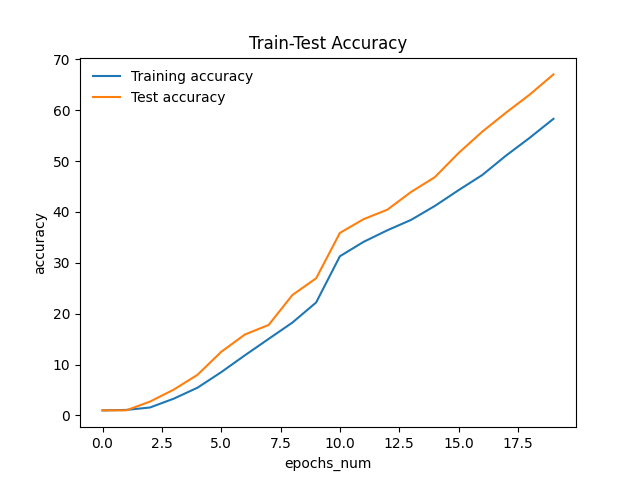
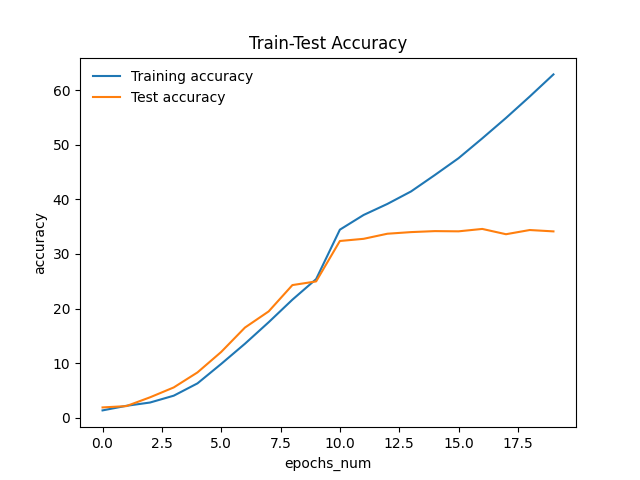
fixed bug with training data set

diff --git a/main.py b/main.py
@@ -37,7 +37,7 @@ def make_data_sets():
     data_sets = {
         'train': torchvision.datasets.CIFAR100(root='data', train=True, download=True,
                                                transform=data_transforms['train']),
-        'test': torchvision.datasets.CIFAR100(root='data', download=True, transform=data_transforms['test'])
+        'test': torchvision.datasets.CIFAR100(root='data', download=True, train=False, transform=data_transforms['test'])
     }
 
     dataloaders = {
@@ -59,13 +59,15 @@ def make_data_sets():
 def main_fun():
     dt, ds, dl = make_data_sets()
     model = models.resnet50(weights=None, num_classes=100)
+    model.load_state_dict(torch.load("./models/resNet50.pt"))
+    #model = models.vgg19(weights=None, num_classes=100)
+    #model = models.mobilenet_v2(weights=None, num_classes=100)
     emb_size = 100
-    model.fc = nn.Linear(2048, emb_size)
     resnet50 = mw.ModelWrapper(data_loaders=dl, data_sets=ds, epochs_num=20,
                                model=model,
-                               #loss_fun=losses.ArcFaceLoss(num_classes=100, embedding_size=emb_size,
-                               #                            margin=85.8, scale=24).to(torch.device('cuda')),
-                               learning_rate=3e-3)
+                               loss_fun=losses.ArcFaceLoss(num_classes=100, embedding_size=emb_size,
+                                                           margin=28.6, scale=64).to(torch.device('cuda')),
+                               learning_rate=3e-5)
     train_accuracies, test_accuracies, train_losses, test_losses = resnet50.train_it()
 
     #vgg19 = mw.ModelWrapper(data_loaders=dl, data_sets=ds, epochs_num=20, model=models.vgg19(weights=None))
@@ -84,7 +86,7 @@ def main_fun():
     plt.xlabel('epochs_num')
     plt.ylabel('accuracy')
     plt.legend(frameon=False)
-    plt.savefig('accuracy_stat_resnet50_margin_loss.png')
+    plt.savefig('accuracy_stat_ResNet50MarginLoss_pretrained.png')
 
     plt.clf()
 
@@ -94,7 +96,7 @@ def main_fun():
     plt.xlabel('epochs_num')
     plt.ylabel('loss')
     plt.legend(frameon=False)
-    plt.savefig('losses_stat_resnet50_margin_loss.png')
+    plt.savefig('losses_stat_ResNet50MarginLoss_pretrained.png')
 
 
 if __name__ == '__main__':

diff --git a/model_wrappers/ModelWrapper.py b/model_wrappers/ModelWrapper.py
@@ -100,7 +100,7 @@ class ModelWrapper:
             print(f'test loss: {np.mean(test_losses):.4f}, test acc: {test_accuracies[-1]:.4f}\n')
 
             if is_better:
-                torch.save(self.model.state_dict(), f'models/resNet50_margin_loss.h5')
+                torch.save(self.model.state_dict(), f'models/margin_loss_pretrained.pt')
                 print('Improvement-Detected, save-model')
         train_accuracies_cpu = []
         test_accuracies_cpu = []
